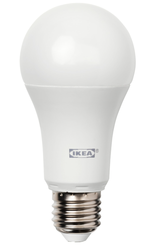
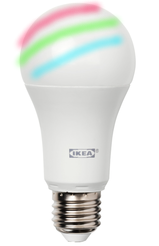
Ampoule Couleur Ikea Compatible Homebridge

Changed region(s): [[0.1006, 0.0, 0.7799, 0.3415]]

diff --git a/resources/AbeilleDeamon/AbeilleMQTTCmd.php b/resources/AbeilleDeamon/AbeilleMQTTCmd.php
@@ -43,7 +43,8 @@
             // deamonlog('warning','Msg Received: Topic: {'.$topic.'} => '.$msg.' mais je ne sais pas quoi en faire, no action.');
             return;
         }
-
+        
+        deamonlog('info', '-----' );
         deamonlog('info', 'Msg Received: Topic: {'.$topic.'} => '.$msg);
 
         deamonlog('debug', 'Type: '.$type.' Address: '.$address.' avec Action: '.$action);
@@ -456,14 +457,23 @@
                 }
                 //----------------------------------------------------------------------------
             } elseif ($action == "setColourRGB") {
+                
+                // Si message vient de Abeille alors le parametre est: RRVVBB
+                // Si le message vient de Homebridge: {"color":"#00FF11"}, j'extrais la partie interessante.
+                if ( strpos( $msg, "color" )>0 ) {
+                    $msg = substr( JSON_decode( $msg )->color, 1 );
+                }
+                
                 $rouge = hexdec(substr($msg,0,2));
                 $vert  = hexdec(substr($msg,2,2));
                 $bleu  = hexdec(substr($msg,4,2));
+                
                 deamonlog( 'debug', "msg: ".$msg." rouge: ".$rouge." vert: ".$vert." bleu: ".$bleu );
                 
                 $client->publish('Abeille/'.$address.'/colorRouge', $rouge*100/255, $qos);
-                $client->publish('Abeille/'.$address.'/colorVert',  $vert*100/255, $qos);
-                $client->publish('Abeille/'.$address.'/colorBleu',  $bleu*100/255, $qos);
+                $client->publish('Abeille/'.$address.'/colorVert',  $vert*100/255,  $qos);
+                $client->publish('Abeille/'.$address.'/colorBleu',  $bleu*100/255,  $qos);
+                $client->publish('Abeille/'.$address.'/ColourRGB',  $msg,           $qos);
                 
                 $Command = array(
                                  "setColourRGB" => "1",

diff --git a/core/class/Abeille.class.php b/core/class/Abeille.class.php
@@ -2164,7 +2164,7 @@
     {
         public function execute($_options = null)
         {
-            // log::add('Abeille', 'Debug', 'execute function');
+            log::add('Abeille', 'Debug', 'execute function with ->'.json_encode($_options).'<-');
             switch ($this->getType()) {
                 case 'action' :
                     //

diff --git a/desktop/php/Abeille.php b/desktop/php/Abeille.php
@@ -211,7 +211,10 @@ $parameters_info = Abeille::getParameters();
             </tr>
             </tr>
             </table>
-            
+
+            <br>
+            <br>
+
             <legend><i class="fa fa-cog"></i> {{Dev en cours}}</legend>
             <table>
             </tr><tr>
